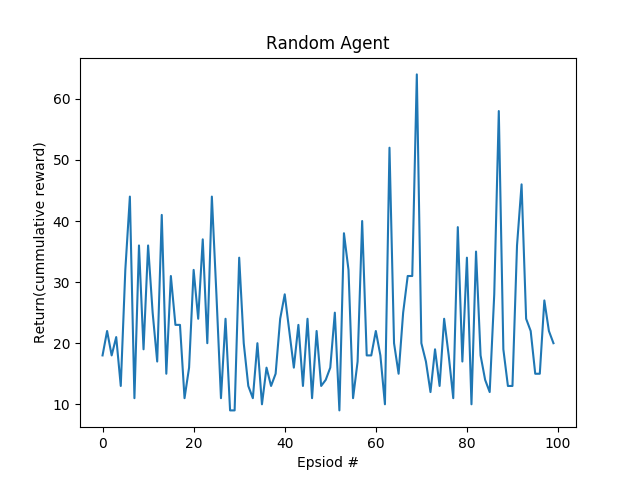
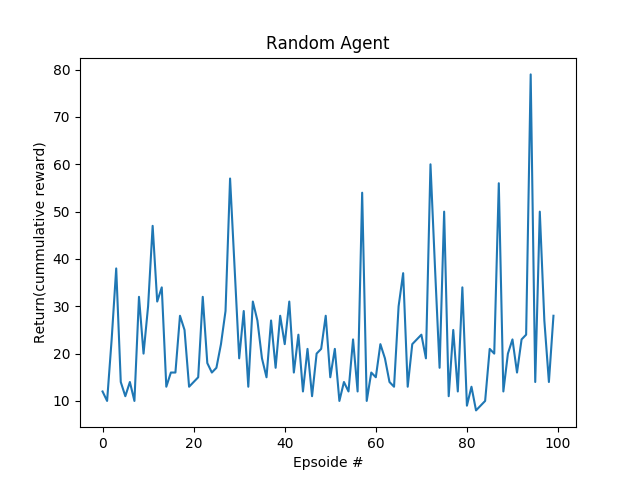
adding plot function and updating little bit

diff --git a/classicQ.py b/classicQ.py
@@ -4,6 +4,10 @@ import gym
 import numpy as np
 import math
 from collections import deque
+import numpy as np
+import matplotlib.pyplot as plt
+import time
+from plotUtils import plot_
 
 class ObsDesc:
     def __init__(self, env, buckets=(1, 1, 6, 12,), up=None, low=None):
@@ -58,39 +62,76 @@ class QCartPoleSolver():
     def get_alpha(self, t):
         return max(self.min_alpha, min(1.0, 1.0 - math.log10((t + 1) / self.ada_divisor)))
 
-    def run(self):
-        scores = deque(maxlen=100)
 
-        for e in range(self.n_episodes):
-            current_state = self.obscretizer.discretize(self.env.reset())
 
-            alpha = self.get_alpha(e)
-            epsilon = self.get_epsilon(e)
-            done = False
-            i = 0
+    def run_naya(self):
+        lis = []
+        count =0
+        for i in range(200):
+            retrn = 0
+            state = self.obscretizer.discretize(self.env.reset())
+            alpha = self.get_alpha(i)
+            epsilon = self.get_epsilon(i)
+            done =False
+            while True:
+                retrn += 1
+                #time.sleep(0.01)
+               # self.env.render()
+                #time.sleep(0.1)
+                action = self.choose_action(state, epsilon)
+                state_next, reward, done, info = self.env.step(action)
+                state_next = self.obscretizer.discretize(state_next)
+                self.Q[state][action] += alpha * \
+                    (reward + self.gamma * np.max(self.Q[state_next]) - self.Q[state][action])
+                retrn += 1
+                state = state_next
+                if done:
+                    
+                    lis.append(retrn)
+                    if retrn >200:
+                        print (count)
+                        count +=1
+                    print ("Epsoid: " + str(i) + "score: " + str(retrn))
+                    break 
+            
+        plot_(np.arange(len(lis)),lis,"No of episode","Reward","Win Rate",200,count)
 
-            while not done:
-                # self.env.render()
-                action = self.choose_action(current_state, epsilon)
-                obs, reward, done, _ = self.env.step(action)
-                new_state = self.obscretizer.discretize(obs)
-                self.update_q(current_state, action, reward, new_state, alpha)
-                current_state = new_state
-                i += 1
+        # plt.plot(np.arange(len(lis_)),lis_)
+        # plt.xlabel("No of episodes")
+        # plt.ylabel("Return(Cummulative rewards)")
+        # plt.title("Q Learning")
+        # plt.show()
+    def inference (self):
+        lis = []
+        count =0
+        for i in range(200):
+            retrn = 0
+            state = self.obscretizer.discretize(self.env.reset())
+            done =False
+            while True:
+                retrn += 1
+                #time.sleep(0.01)
+               # self.env.render()
+                #time.sleep(0.1)
+                action = np.argmax(self.Q[state])
+                state_next, reward, done, info = self.env.step(action)
+                state_next = self.obscretizer.discretize(state_next)
+                # self.Q[state][action] += alpha * \
+                #     (reward + self.gamma * np.max(self.Q[state_next]) - self.Q[state][action])
+                retrn += 1
+                state = state_next
+                if done:
+                    lis.append(retrn)
+                    if count >200:
+                        count +=1
+                    print ("Epsoid: " + str(i) + "score: " + str(retrn))
+                    break 
+            
+        plot_(np.arange(len(lis)),lis,"No of episode","Reward","Win Rate",200,count)
 
-            scores.append(i)
-            mean_score = np.mean(scores)
-            if mean_score >= self.n_win_ticks and e >= 100:
-                if not self.quiet: 
-                    print('Ran {} episodes. Solved after {} trials ✔'.format(e, e - 100))
-                return e - 100
-            if e % 100 == 0 and not self.quiet:
-                print('[Episode {}] - Mean survival time over last 100 episodes was {} ticks.'.format(e, mean_score))
-
-        if not self.quiet: print('Did not solve after {} episodes 😞'.format(e))
-        return e
 
 if __name__ == "__main__":
     solver = QCartPoleSolver()
-    solver.run()
+    solver.run_naya()
+    #solver.inference()
     # gym.upload('tmp/cartpole-1', api_key='')

diff --git a/DQNlearning.py b/DQNlearning.py
@@ -7,11 +7,13 @@ from collections import deque
 import torch.nn as nn
 import torch
 import time
+import matplotlib.pyplot as plt
+from plotUtils import plot_
 
 ENV_NAME = "CartPole-v1"
 
 GAMMA = 0.99
-LEARNING_RATE = 0.0005
+LEARNING_RATE = 0.0002
 
 MEMORY_SIZE = 1000000
 BATCH_SIZE = 20
@@ -108,15 +110,17 @@ def inference():
     observation_space = env.observation_space.shape[0]
     action_space = env.action_space.n
     num_epsoid = 0
-    while num_epsoid <1000000:
+    lis = []
+    count =0
+    while num_epsoid <200:
         num_epsoid += 1
         state = env.reset()
         state = np.reshape(state, [1, observation_space])
         step = 0
         while True:
             step += 1
-            time.sleep(0.01)
-            env.render()
+#            time.sleep(0.01)
+       #     env.render()
             with torch.no_grad():
                 q_values = model(torch.tensor(state))
                 action = torch.argmax(q_values[0]).item()
@@ -126,9 +130,13 @@ def inference():
             state_next = np.reshape(state_next, [1, observation_space])
             state = state_next
             if terminal:
+                lis.append(step)
+                if step>200:
+                    count+=1
                 print ("Epsoid: " + str(num_epsoid) + "score: " + str(step))
                 break
-
+    plot_(np.arange(len(lis)),lis,"No of episode","Reward","Win Rate",200,count)
+#    (x_, y_,x_label="Not given", y_label = "Not given", title_ = "Not given", Thresh = None):
 
 def train():
     env = gym.make(ENV_NAME)
@@ -139,8 +147,8 @@ def train():
     l = []
     start = time.time()
     while num_epsoid < 200:
-        if len(l)>8:
-            break
+        # if len(l)>8:
+        #     break
         num_epsoid += 1
         state = env.reset()
         state = np.reshape(state, [1, observation_space])
@@ -167,6 +175,6 @@ def train():
 
 
 if __name__ == "__main__":
-    train()
+  #  train()
     print ("---------------------inferencing now---------------------------")
     inference()

diff --git a/cartPolRndm.py b/cartPolRndm.py
@@ -3,13 +3,16 @@ import time
 import gym
 import numpy as np
 import matplotlib.pyplot as plt
+from plotUtils import plot_ 
+
 env = gym.make('CartPole-v1')
 lis = []
-for i_episode in range(100):
+count =0
+for i_episode in range(200):
     observation = env.reset()
     retrn = 0
-    for t in range(100):
-        env.render()
+    while True :
+#        env.render()
        # print(observation)
         action = env.action_space.sample()
         observation, reward, done, info = env.step(action)
@@ -17,10 +20,15 @@ for i_episode in range(100):
         time.sleep(0.01)
         if done:     #done is returned as true when termination condition(lander touches ground) occurs
             print("Epsiod:Reward",i_episode,retrn)
+            if count >200:
+                count +=1
             lis.append(retrn)
             break
-plt.plot(np.arange(len(lis)),lis)
-plt.ylabel("Return(cummulative reward)")
-plt.xlabel("Epsiod #")
-plt.title("Random Agent")
-plt.show()
+    
+plot_(np.arange(len(lis)),lis,"No of episode","Reward","Win Rate",200,count)
+
+# plt.plot(np.arange(len(lis)),lis)
+# plt.ylabel("Return(cummulative reward)")
+# plt.xlabel("Epsoide #")
+# plt.title("Random Agent")
+# plt.show()
